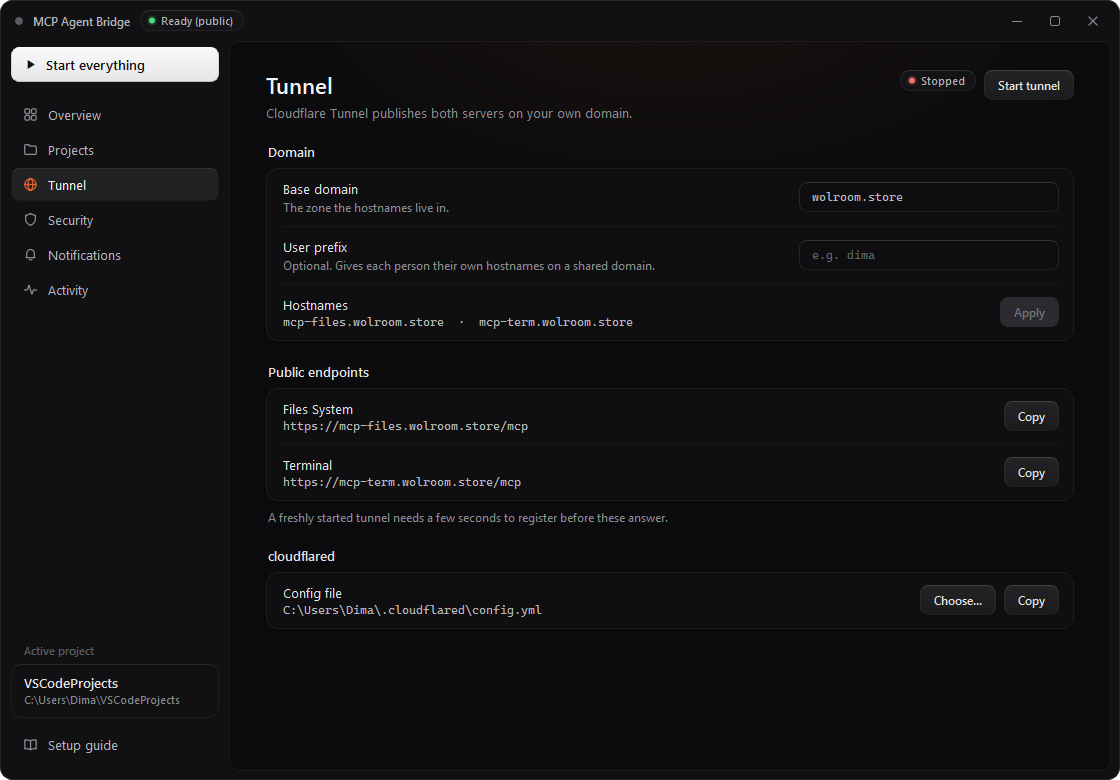
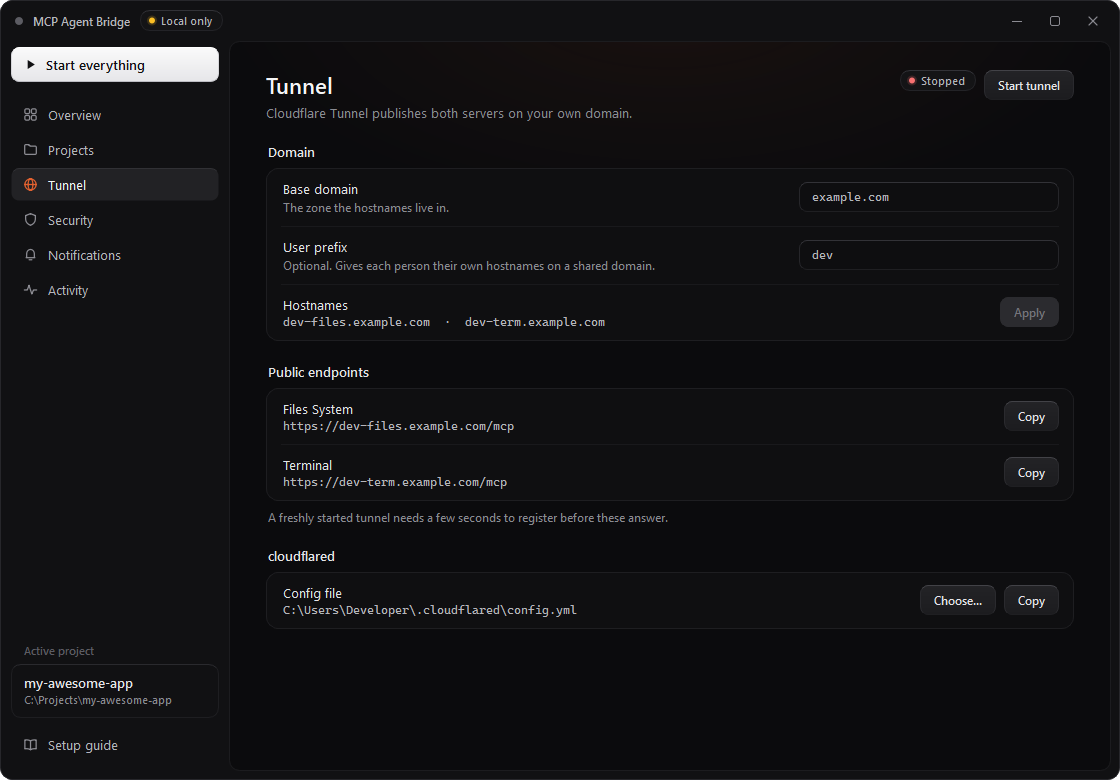
fix(ci): add pyyaml to requirements, anonymize screenshots and collapse showcase

diff --git a/README.md b/README.md
@@ -20,7 +20,7 @@ Dual streamable MCP servers for file system operations and terminal execution wi
 
 ## Overview
 
-**MCP Agent Bridge** connects remote and local AI agents (such as Notion AI, Claude Code, Cursor, or VS Code) to your local Windows environment via two dedicated HTTP MCP servers:
+**MCP Agent Bridge** connects remote and local AI agents (such as Claude Code, Cursor, VS Code, or custom cloud agents) to your local Windows environment via two dedicated HTTP MCP servers:
 
 - 📂 **Files System (`:9500`)**: Safe file reading (paged text, auto-image detection), editing with atomic replacements, file tree management, undo backups, and binary zip packing.
 - ⚡ **Terminal (`:9501`)**: Command execution (`cmd.exe`), long-running background processes, stream monitoring with regex triggers, skill catalogs (`AGENTS.md`, `CLAUDE.md`, `npx skills`), and Telegram notifications.
@@ -31,9 +31,9 @@ For technical architecture details and design philosophy, see [ARCHITECTURE.md](
 
 ---
 
-## Visual Showcase
-
-### Interactive Application Tour
+<details>
+<summary><b>🎬 Visual Showcase (Interface Tour & Screenshots)</b></summary>
+<br/>
 
 <div align="center">
   <img src="assets/screenshots/demo.gif" alt="MCP Agent Bridge UI Tour" width="850" />
@@ -41,14 +41,10 @@ For technical architecture details and design philosophy, see [ARCHITECTURE.md](
 
 <br/>
 
-<details open>
-<summary><b>📸 Interface Highlights</b></summary>
-<br/>
-
 | 🎛 Control Panel (Overview) | ⚡ Fast Setup Guide |
 |:---:|:---:|
 | <img src="assets/screenshots/overview.png" alt="Overview" width="450" /> | <img src="assets/screenshots/setup_guide.png" alt="Setup Guide" width="450" /> |
-| *Live port monitoring, status indicators & one-click start/stop* | *Ready-to-paste agent configurations for Notion AI, Claude & Cursor* |
+| *Live port monitoring, status indicators & one-click start/stop* | *Ready-to-paste agent configurations for Claude, Cursor & IDEs* |
 
 | 🛡 Security Guardrails | 🌐 Cloudflare Tunnel Routing |
 |:---:|:---:|
@@ -72,9 +68,9 @@ For technical architecture details and design philosophy, see [ARCHITECTURE.md](
 ## Supported Clients
 
 Compatible with any MCP client supporting HTTP endpoints with Bearer authentication:
-- **Notion AI**: Custom agent connections over Cloudflare Tunnel
 - **Claude Code**: Direct local connection (`http://127.0.0.1:9500/mcp`) or remote tunnel
 - **Cursor & VS Code**: Remote agent tools integration
+- **Web & Cloud Agents**: Custom connections over Cloudflare Tunnel
 - Any custom MCP client or orchestration script
 
 ---
@@ -110,7 +106,7 @@ python tools\make_shortcuts.py --desktop
 
 1. Launch the control panel and click **Start everything** in the sidebar.
 2. Click **Setup guide** on the Overview page.
-3. Copy your server endpoints, authentication Bearer token, and agent connection snippet directly into your MCP client (Notion AI, Claude Code, Cursor).
+3. Copy your server endpoints, authentication Bearer token, and agent connection snippet directly into your MCP client (Claude Code, Cursor, custom agents).
 
 ---
 
